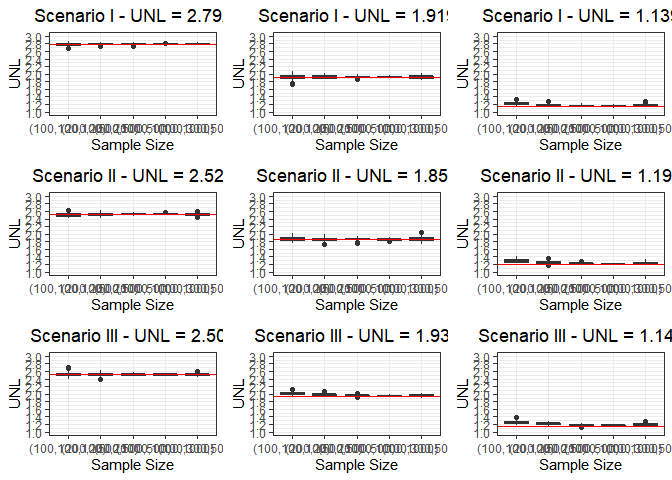
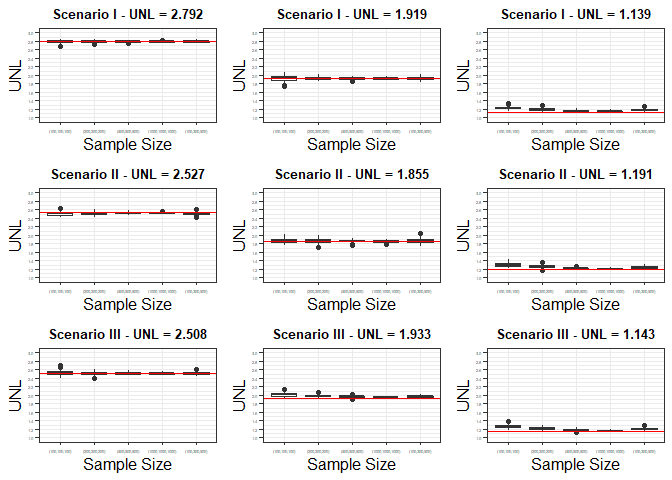
update uncon

diff --git a/tutorials/UNL_simu_tutorial.md b/tutorials/UNL_simu_tutorial.md
@@ -5,9 +5,9 @@ Setting”
 Zhaoxi Zhang, Vanda Inácio, and Miguel de Carvalho
 
 In this tutorial we describe the steps for obtaining the results of the
-Simulation study in Section 4 of the paper "The Underlap Coefficient as
-Measure of a Biomarker’s Discriminatory Ability in a Three-Class Disease
-Setting".
+simulation study in the unconditional case in Section 5.1 of the paper
+"The Underlap Coefficient as Measure of a Biomarker’s Discriminatory
+Ability in a Three-Class Disease Setting".
 
 As a preliminary step, we load on a clean environment all the required
 libraries.
@@ -39,23 +39,6 @@ unconditional case.
 ``` r
 source("../functions/unconditional_simulation_functions.R")
 ```
-
-    ## 载入需要的程序包：stats4
-
-    ## 
-    ## 载入程序包：'sn'
-
-    ## The following object is masked from 'package:pracma':
-    ## 
-    ##     zeta
-
-    ## The following object is masked from 'package:stats':
-    ## 
-    ##     sd
-
-    ## Linked to JAGS 4.3.1
-
-    ## Loaded modules: basemod,bugs
 
 Because we conduct the estimation of underlap repeatedly for 100
 datasets in each scenario, so the process could be accelerated by
@@ -386,7 +369,7 @@ cowplot::plot_grid(median_box_unconc1,median_box_unconc2,median_box_unconc3,
                    median_box_unconc7,median_box_unconc8,median_box_unconc9,ncol = 3)
 ```
 
-![](UNL_simu_tutorial_files/figure-gfm/unnamed-chunk-8-1.png)<!-- -->
+![](UNL_simu_tutorial_files/figure-gfm/unnamed-chunk-9-1.png)<!-- -->
 
 ## 95% CI width boxplots
 
@@ -518,4 +501,4 @@ cowplot::plot_grid(width_box_unconc1,width_box_unconc2,width_box_unconc3,
                    width_box_unconc7,width_box_unconc8,width_box_unconc9,ncol = 3)
 ```
 
-![](UNL_simu_tutorial_files/figure-gfm/unnamed-chunk-10-1.png)<!-- -->
+![](UNL_simu_tutorial_files/figure-gfm/unnamed-chunk-11-1.png)<!-- -->
